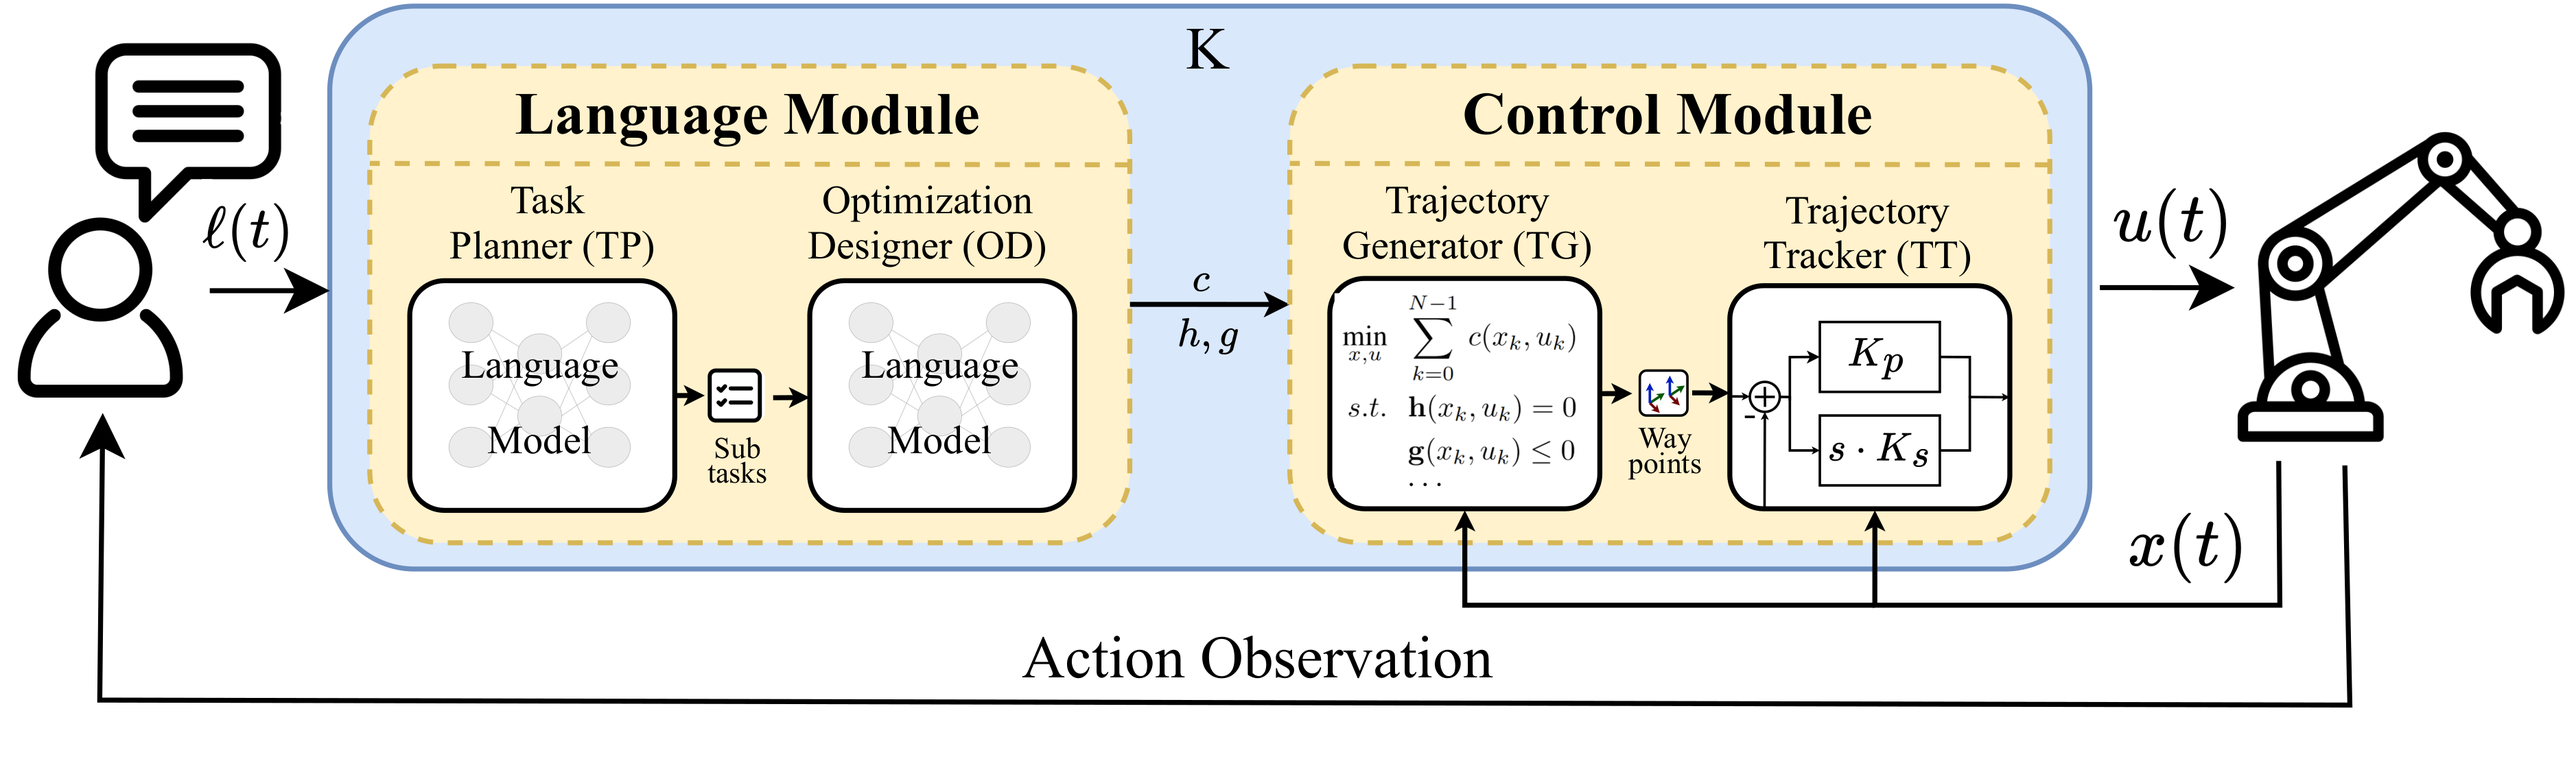
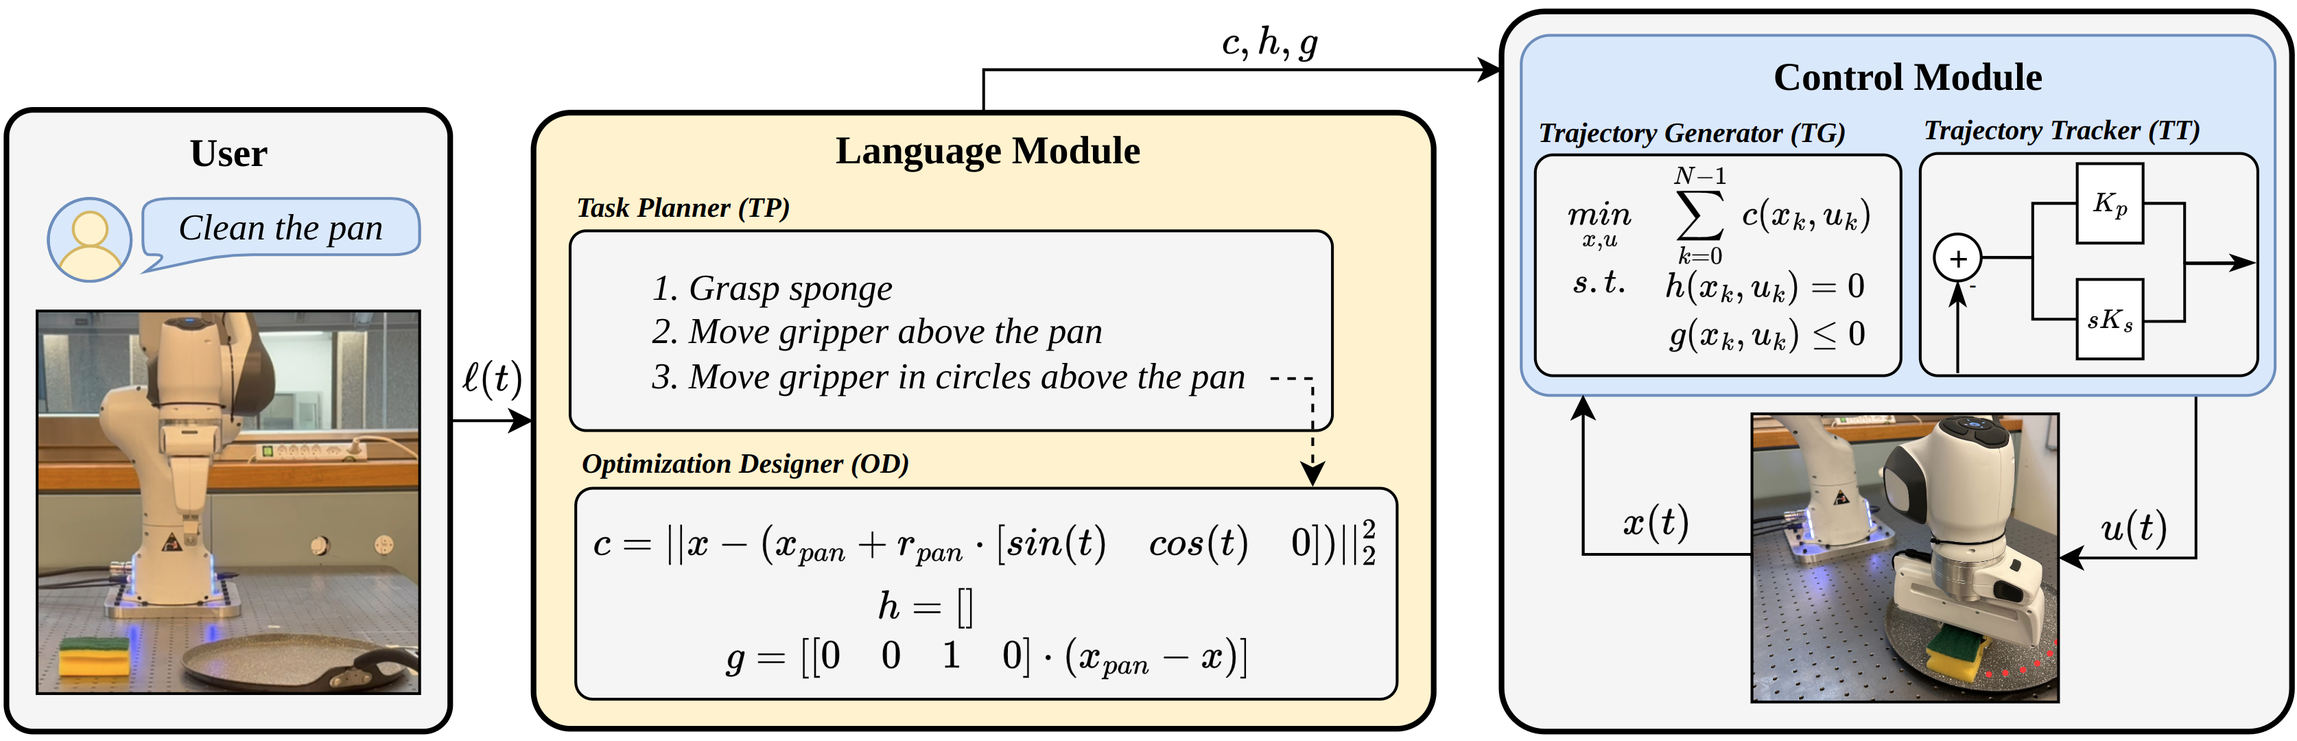
changes

diff --git a/index.html b/index.html
@@ -46,10 +46,10 @@
           <!-- <h3 class="title is-4 conference-authors"><a target="_blank" href="https://www.corl2023.org/">IROS 2024</a></h3> -->
           <div class="is-size-5 publication-authors">
             <span class="author-block">
-              <a target="_blank" href="https://seifismail.com/">Seif Ismail</a><sup>1</sup>,
+              <a target="_blank" href="https://seifismail.com/">Seif Ismail</a><sup>*,1</sup>,
             </span>
             <span class="author-block">
-              <a target="_blank" href="https://twitter.com/arbwes">Antonio Arbues</a><sup>1</sup>,
+              <a target="_blank" href="https://twitter.com/arbwes">Antonio Arbues</a><sup>*,1</sup>,
             </span>
             <span class="author-block">
               <a target="_blank" href="https://ryNARRATEb.io/authors/ryan/">Ryan Cotterell</a><sup>1</sup>,
@@ -200,12 +200,28 @@
         <h2 class="title is-3">Abstract</h2>
         <div class="content has-text-justified">
           <p>
-            The impressive capabilities of Large Language Models (LLMs) have led to various efforts to perform robotic control from natural language instructions. 
-            The goal is for the motor-control task to be performed accurately, efficiently and safely while also enjoying the flexibility imparted by LLMs to specify and adjust the task through natural language. 
-            In this work, we demonstrate how a careful layering of an LLM in combination with a Model Predictive Control (MPC) formulation allows for accurate, safe, and flexible robotic control via natural language. 
-            In particular, we rely on the LLM to effectively frame constraints and cost functions as mathematical expressions, according to the language instructions, which are later used in the motor-control module via MPC. 
-            The transparency of the optimization formulation allows for interpretability of the task and enables adjustments through human feedback. We demonstrate the validity of our method through extensive experiments on long-horizon reasoning, contact-rich, and multi-object interaction tasks. 
-            Our evaluations show that NARRATE outperforms current existing methods on these benchmarks and transfers to the real world on 2 different embodiments.
+            The impressive capabilities of Large Language
+            Models (LLMs) have led to various efforts to enable robots
+            to be controlled through natural language instructions, opening
+            exciting possibilities for human-robot interaction The goal is for
+            the motor-control task to be performed accurately, efficiently
+            and safely while also enjoying the flexibility imparted by
+            LLMs to specify and adjust the task through natural language.
+            In this work, we demonstrate how a careful layering of an
+            LLM in combination with a Model Predictive Control (MPC)
+            formulation allows for accurate and flexible robotic control
+            via natural language while taking into consideration safety
+            constraints. In particular, we rely on the LLM to effectively
+            frame constraints and objective functions as mathematical
+            expressions, which are later used in the motor-control module
+            via MPC. The transparency of the optimization formulation
+            allows for interpretability of the task and enables adjustments
+            through human feedback. We demonstrate the validity of
+            our method through extensive experiments on long-horizon
+            reasoning, contact-rich, and multi-object interaction tasks. Our
+            evaluations show that NARRATE outperforms current existing
+            methods on these benchmarks and effectively transfers to the
+            real world on two different embodiments.
           </p>
         </div>
       </div>
@@ -250,7 +266,10 @@
         </br>
         </br>
           <p class="content has-text-justified">
-            The user provides a task in natural language <i>l</i>, which then gets translated into a series of steps (TP) and cost and constraints (OD) via two layered blocks of a language model in the language module. The cost and constraints <i>c</i>,<i>h</i>,<i>g</i> are then used as inputs to the control module, which generates a trajectory via MPC (TG) and the low-level controls (TT) to be applied to the system, in this case, a robotic arm.
+            The user provides a task in natural language <i>l</i>, which then gets translated into a series of steps (TP) and objective and constraints (OD) via two layered blocks
+            of a language model in the language module. The objective and constraints <i>c</i>, <i>h</i>, <i>g</i> are then used as inputs to the control module, which
+            generates a trajectory via MPC (TG) and the low-level control commands (TT) to be applied to the system, in this case, a robotic arm.
+            <!-- The user provides a task in natural language <i>l</i>, which then gets translated into a series of steps (TP) and cost and constraints (OD) via two layered blocks of a language model in the language module. The cost and constraints <i>c</i>,<i>h</i>,<i>g</i> are then used as inputs to the control module, which generates a trajectory via MPC (TG) and the low-level controls (TT) to be applied to the system, in this case, a robotic arm. -->
           </p>
         </br>
         </br>
@@ -267,7 +286,7 @@
       
       <p class="content has-text-justified">
         We compare NARRATE against <a href="https://code-as-policies.github.io/">Code as Policies</a>, and <a href="https://voxposer.github.io/">VoxPoser</a>. We find that defining the constrained MPC program leads to 
-        the most efficient execution of contact-rich tasks (where the cm-level trajectories of the gripper fingers matter for collision avoidance).
+        the most efficient execution of contact-rich tasks (where the cm-level trajectories of the gripper fingers matters for collision avoidance).
       </p>
       <br>
     </div>
